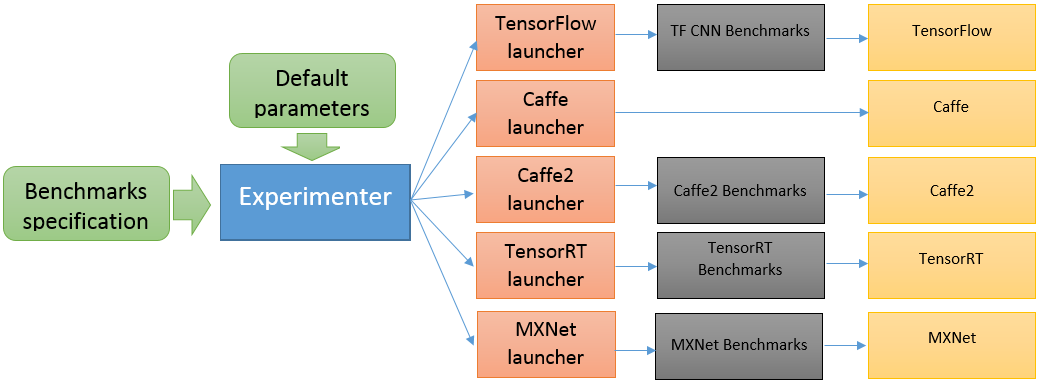
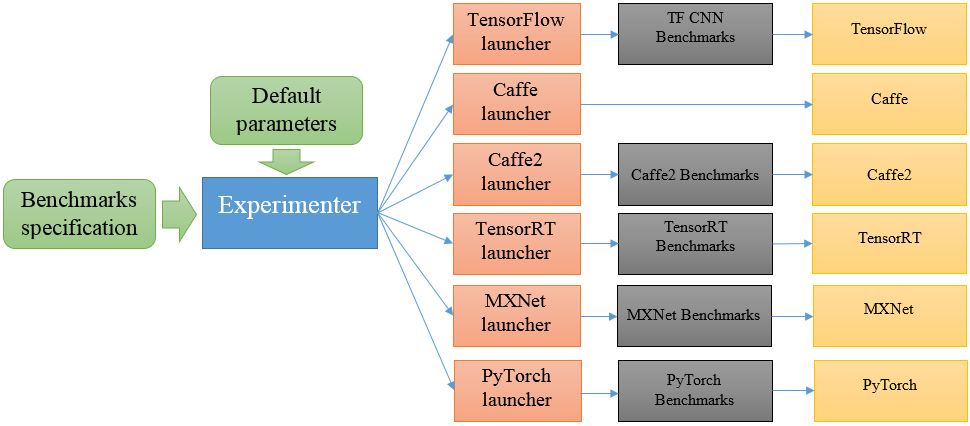
Updating doc overview diagram to include PyTorch. Fixing URL for the diagram.

diff --git a/docs/intro/intro.md b/docs/intro/intro.md
@@ -3,7 +3,7 @@
 Every benchmark is defined by a set of parameters. Every parameter is a key-value pair. Parameters define everything - frameworks, batch sizes, log files, models etc. Benchmark can be defined manually be enumerating all parameters, or automatically, by providing a configuration that defines how parameters should vary from one experiment to another. A script called [exerimenter](https://github.com/HewlettPackard/dlcookbook-dlbs/blob/master/python/dlbs/experimenter.py) varies parameters (basically, by doing Cartesian product) and creates multiple benchmarks with different parameters.
 
 <p align="center">
-  <img src="https://raw.github.hpe.com/labs/dlcookbook/master/docs/intro/imgs/overview.png">
+  <img src="https://raw.githubusercontent.com/HewlettPackard/dlcookbook-dlbs/master/docs/intro/imgs/overview.png">
 </p>
 
 Every framework that we support has a wrapper script - a short 40-80 line bash file that knows how to run benchmarks for a specific framework (Caffe's forks do not have it). Experimenter launches this script and passes all benchmark parameters on a command line. Bash wrapper script then parses these parameters and launches a framework.
